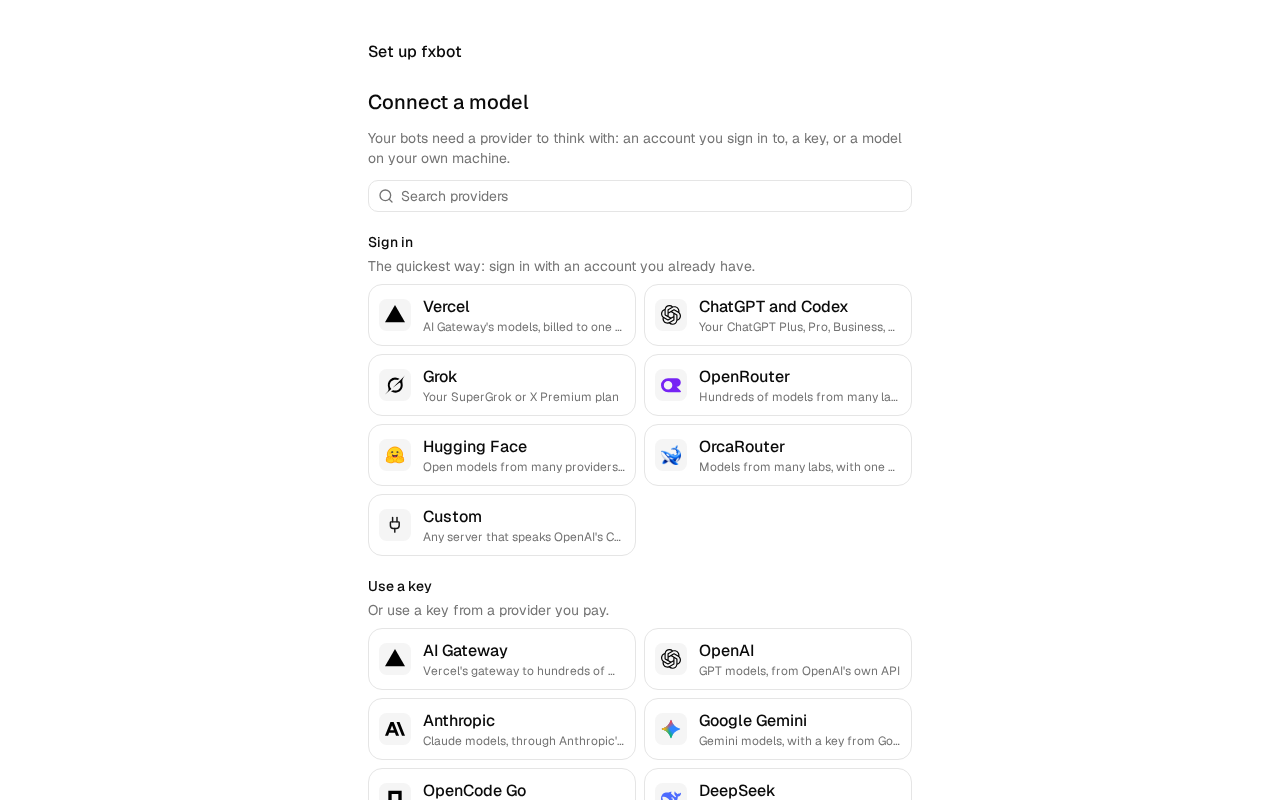
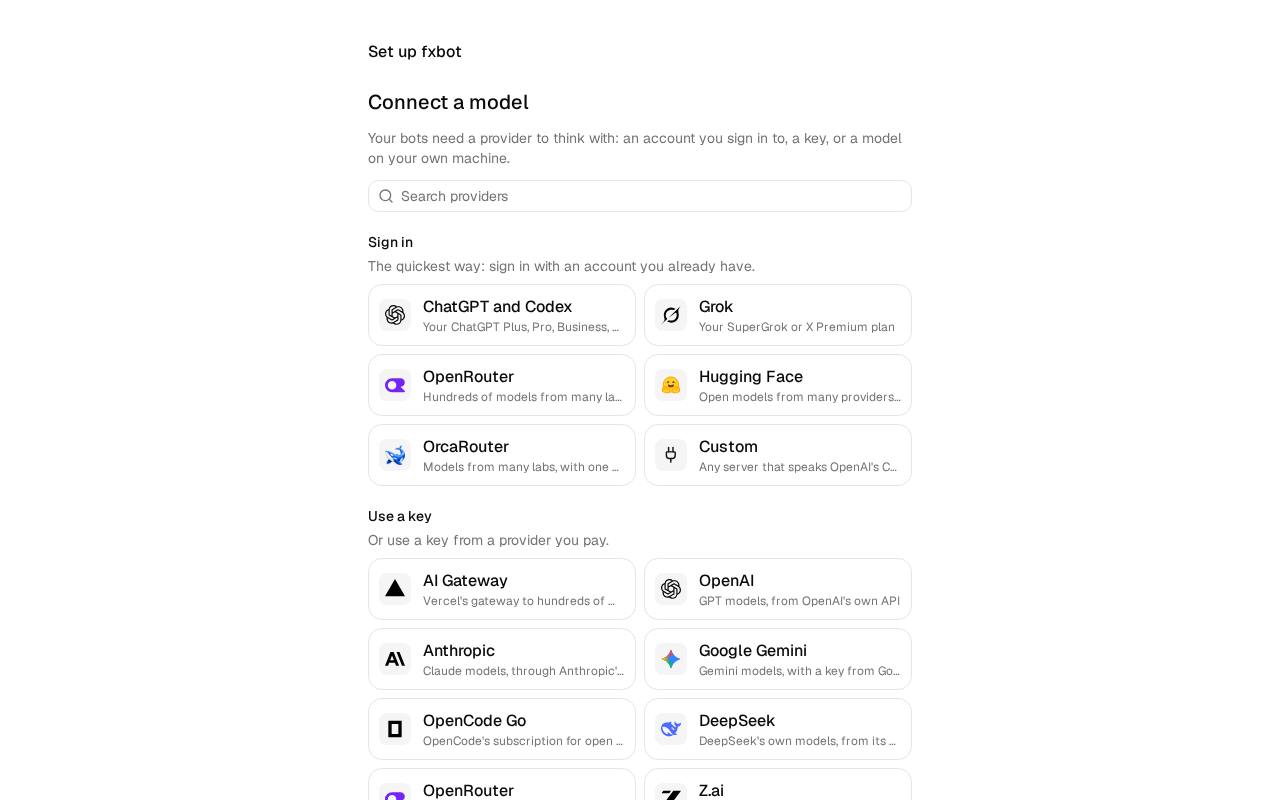
OpenRouter's way back opens fxbot itself
The owner's first real OpenRouter sign-in came back in the tab they started
from, to a page saying to close it, with no fxbot to go back to. A sign-in that's
done now sends the tab on to fxbot: first-run setup's model step, or Settings ›
Providers with the provider there. One that fails says why, with a link back.
The provider shots lose the Vercel sign-in.

diff --git a/packages/server/src/index.ts b/packages/server/src/index.ts
@@ -96,11 +96,13 @@ async function body<T>(req: IncomingMessage, limit = 1 << 20): Promise<T> {
 }
 
 // Where a browser lands after signing in, to an MCP server or to a provider. The message can carry the server's own
-// words, so it is escaped, and the page runs nothing.
-async function cameBack(res: ServerResponse, finish: () => Promise<{ status: string; error?: string }>, done = "Signed in. You can close this tab, and go back to fxbot.") {
+// words, so it is escaped, and the page runs nothing. A provider's sign-in that's done goes on to fxbot itself, as the
+// tab may be the one the owner signed in from: first-run setup's model step, or Settings › Providers.
+async function cameBack(res: ServerResponse, finish: () => Promise<{ status: string; error?: string }>, done = "Connected. You can close this tab.", home?: () => Promise<string>) {
   let message: string;
   try {
     const { status, error } = await finish();
+    if (status === "done" && home) return void res.writeHead(303, { location: await home(), "cache-control": "no-store", "referrer-policy": "no-referrer" }).end();
     message = status === "done" ? done : `Sign-in failed: ${error}`;
   } catch (error) {
     message = `Sign-in failed: ${(error as Error).message}`;
@@ -108,9 +110,9 @@ async function cameBack(res: ServerResponse, finish: () => Promise<{ status: str
   const text = message.replace(/[&<>"']/g, (c) => `&#${c.charCodeAt(0)};`);
   res
     .writeHead(message === done ? 200 : 400, { "content-type": "text/html; charset=utf-8", "content-security-policy": "default-src 'none'; style-src 'unsafe-inline'", "cache-control": "no-store", "referrer-policy": "no-referrer" })
-    .end(`<!doctype html><meta charset="utf-8"><meta name="viewport" content="width=device-width, initial-scale=1"><title>fxbot</title><p style="font:16px system-ui;margin:2rem">${text}</p>`);
+    .end(`<!doctype html><meta charset="utf-8"><meta name="viewport" content="width=device-width, initial-scale=1"><title>fxbot</title><p style="font:16px system-ui;margin:2rem">${text}</p><p style="font:16px system-ui;margin:2rem"><a href="/">Back to fxbot</a></p>`);
 }
-const signedIn = (res: ServerResponse, query: URLSearchParams) => cameBack(res, () => fxbot.oauth.callback(query), "Connected. You can close this tab.");
+const signedIn = (res: ServerResponse, query: URLSearchParams) => cameBack(res, () => fxbot.oauth.callback(query));
 
 // A plugin's own route: the request as a web Request, and its Response streamed back. A closed connection aborts the
 // request's signal and cancels the response's body.
@@ -227,7 +229,8 @@ async function api(req: IncomingMessage, res: ServerResponse, url: URL) {
     if (!id && !action && method === "POST") return json(res, 201, await fxbot.signIns.start(await body(req), req.headers.origin));
     if (id && !action && method === "GET") return json(res, 200, fxbot.signIns.get(id));
     if (id && !action && method === "DELETE") return json(res, 200, (fxbot.signIns.cancel(id), ok));
-    if (id && action === "callback" && method === "GET") return cameBack(res, () => fxbot.signIns.callback(id, url.searchParams));
+    if (id && action === "callback" && method === "GET")
+      return cameBack(res, () => fxbot.signIns.callback(id, url.searchParams), undefined, async () => ((await fxbot.settings.get()).onboarded ? "/settings/providers" : "/"));
     if (id && action === "code" && method === "POST") return json(res, 200, await fxbot.signIns.code(id, (await body<{ code?: unknown }>(req)).code));
     return fail(404, "not found");
   }

diff --git a/packages/website/src/content/docs/sdk/reference/http-api.md b/packages/website/src/content/docs/sdk/reference/http-api.md
@@ -112,7 +112,7 @@ A key goes up in `apiKey`, and Vertex AI's service account in `serviceAccount`. 
 | --- | --- | --- | --- |
 | `POST` | `/api/sign-ins` | `kind`: an entry with a sign-in, such as `chatgpt`, `grok`, `vercel`, `openrouter`, `huggingface`, or `orcarouter`. `provider`, optional: a provider of that kind to sign in again. `way`, optional: `paste`, for a code in place of a way back. | 201 and `SignIn`: `{ id, way, verificationUrl?, userCode?, url?, expiresAt }` |
 | `GET` | `/api/sign-ins/<id>` | | `SignInStatus`: `{ status, provider?, error? }`, with `status` `waiting`, `done`, or `failed` |
-| `GET` | `/api/sign-ins/<id>/callback` | `code` and `state`, from OpenRouter | A small page that says how it went |
+| `GET` | `/api/sign-ins/<id>/callback` | `code` and `state`, from OpenRouter | Done: 303 to `/`, or to `/settings/providers` once first-run setup is over. Failed: a small page that says why, with a link back. |
 | `POST` | `/api/sign-ins/<id>/code` | `code`: the one OpenRouter's page showed | `SignInStatus` |
 | `DELETE` | `/api/sign-ins/<id>` | | `{ "ok": true }` |
 

diff --git a/packages/website/src/content/docs/docs/providers/openrouter.md b/packages/website/src/content/docs/docs/providers/openrouter.md
@@ -9,7 +9,7 @@ OpenRouter reaches hundreds of models from many labs with one account. Some mode
 
 1. In **Settings** › **Providers**, choose **Add provider**, then **OpenRouter**, under **Sign in**.
 2. Choose **Sign in with OpenRouter**, then **Continue to OpenRouter**. OpenRouter opens in a new tab.
-3. Sign in to OpenRouter, and approve fxbot. The tab comes back to fxbot, and says you can close it. fxbot's page finishes on its own.
+3. Sign in to OpenRouter, and approve fxbot. The tab comes back to fxbot itself: to the model step in first-run setup, or to **Settings** › **Providers**, with OpenRouter added. The page you started from finishes on its own too.
 4. Pick a model, and choose **Done**. **Make it the default for new bots** starts new bots on it.
 
 OpenRouter can come back only to an fxbot whose address is HTTPS, such as a tailnet name, or on localhost. On a plain-HTTP address, such as `http://192.168.1.20:8787`, or after **Didn't come back? Use a code instead**, the card asks for a code:
